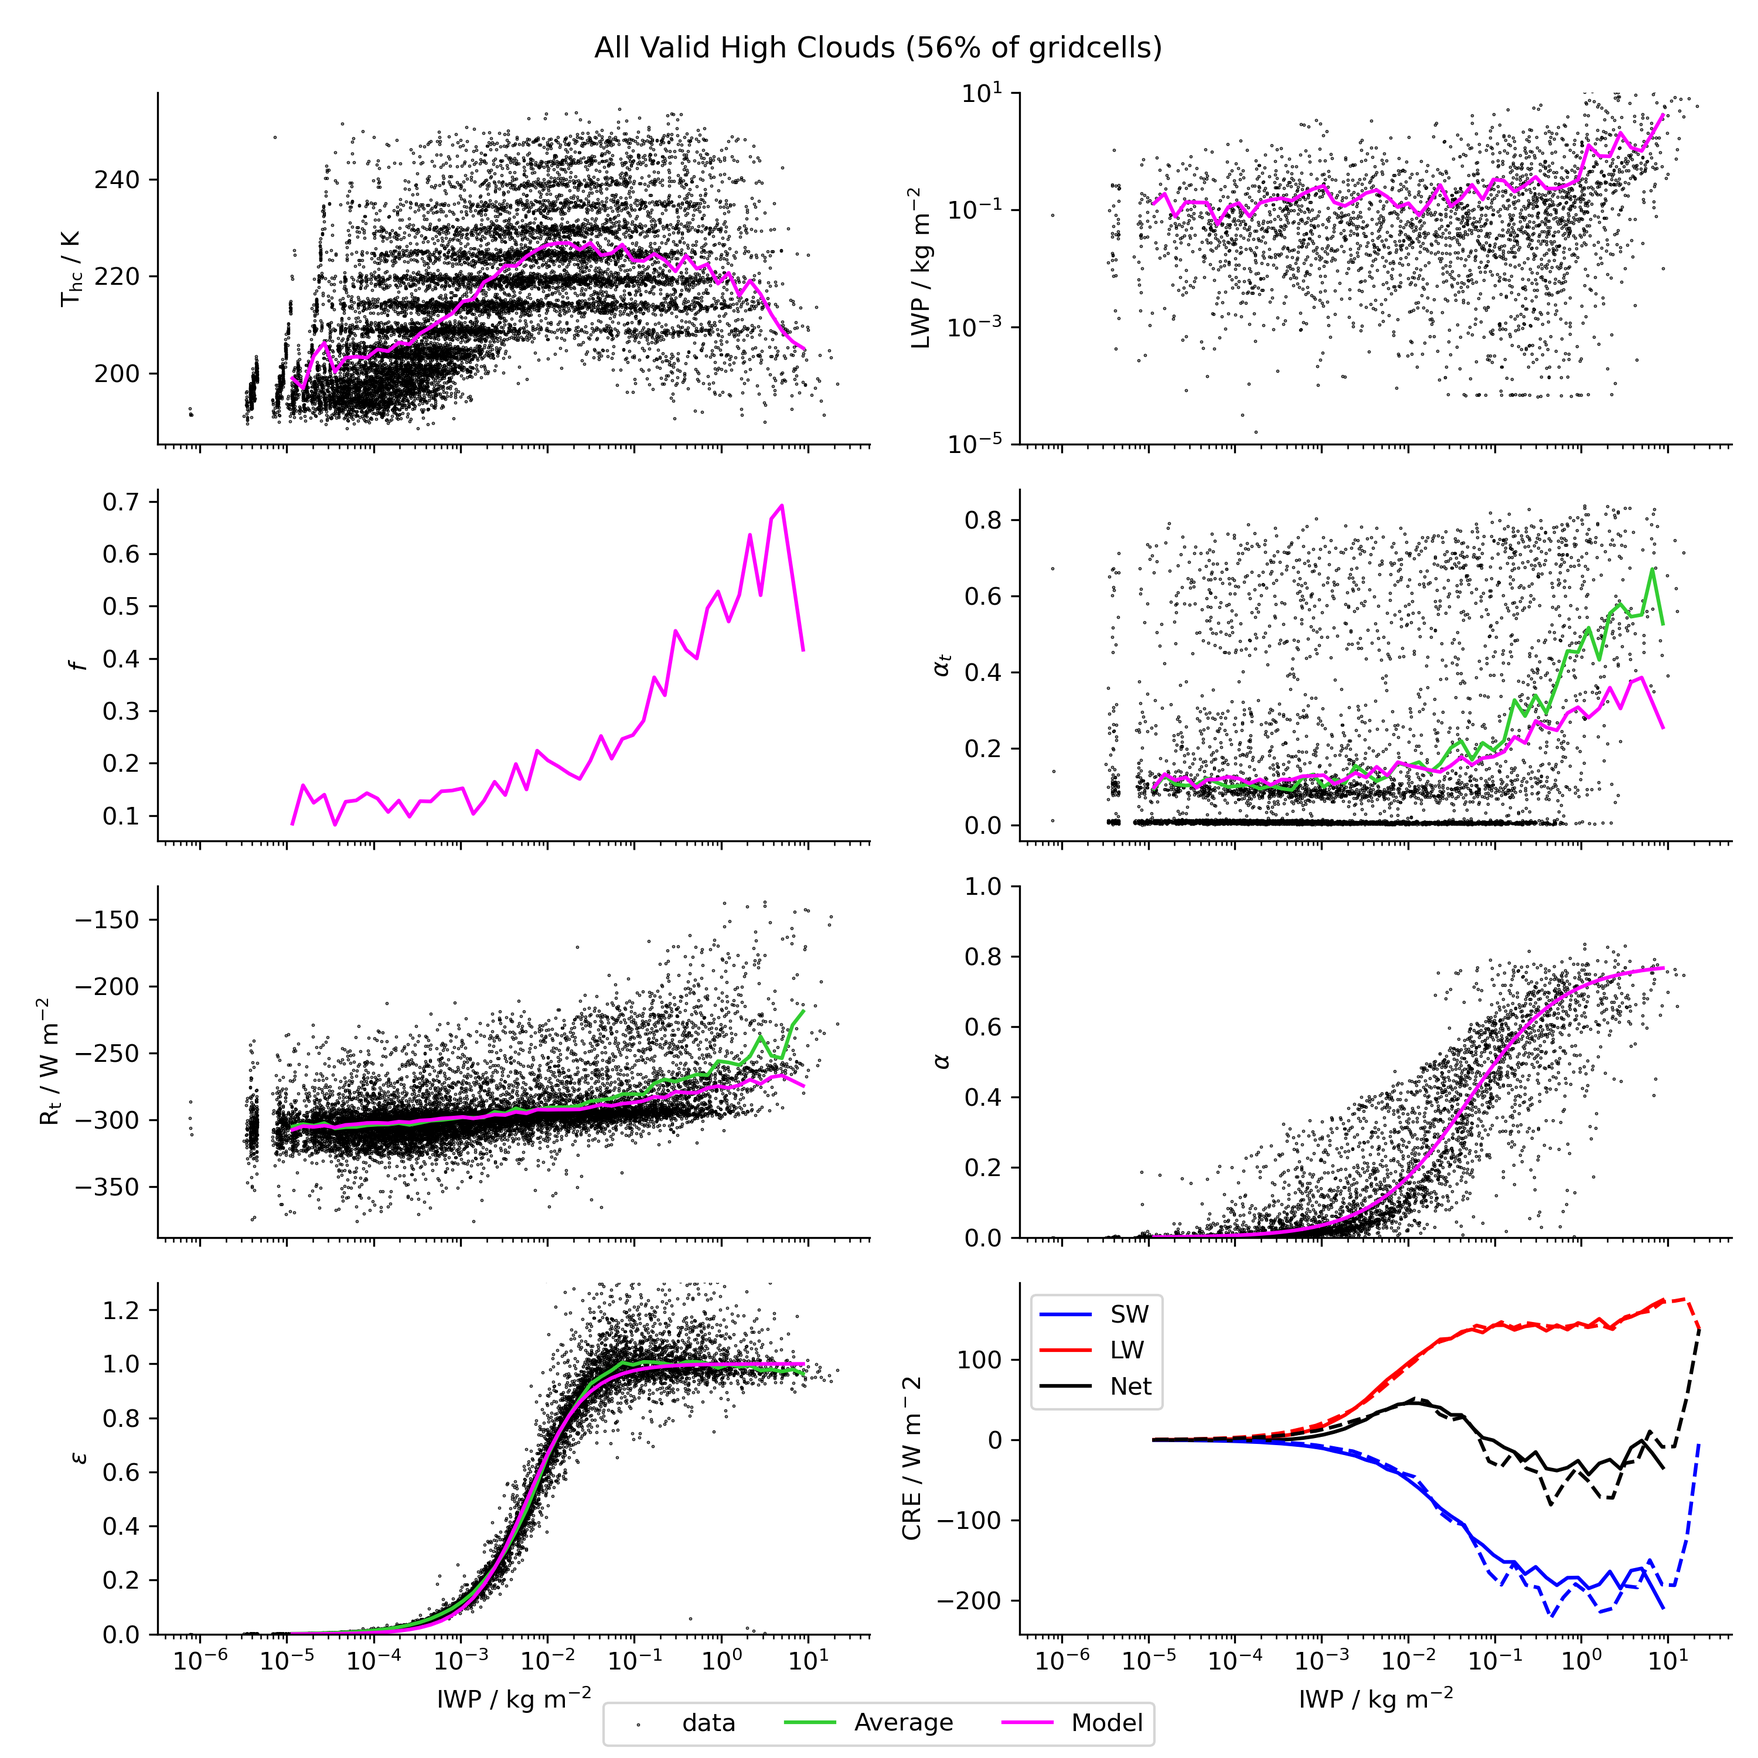
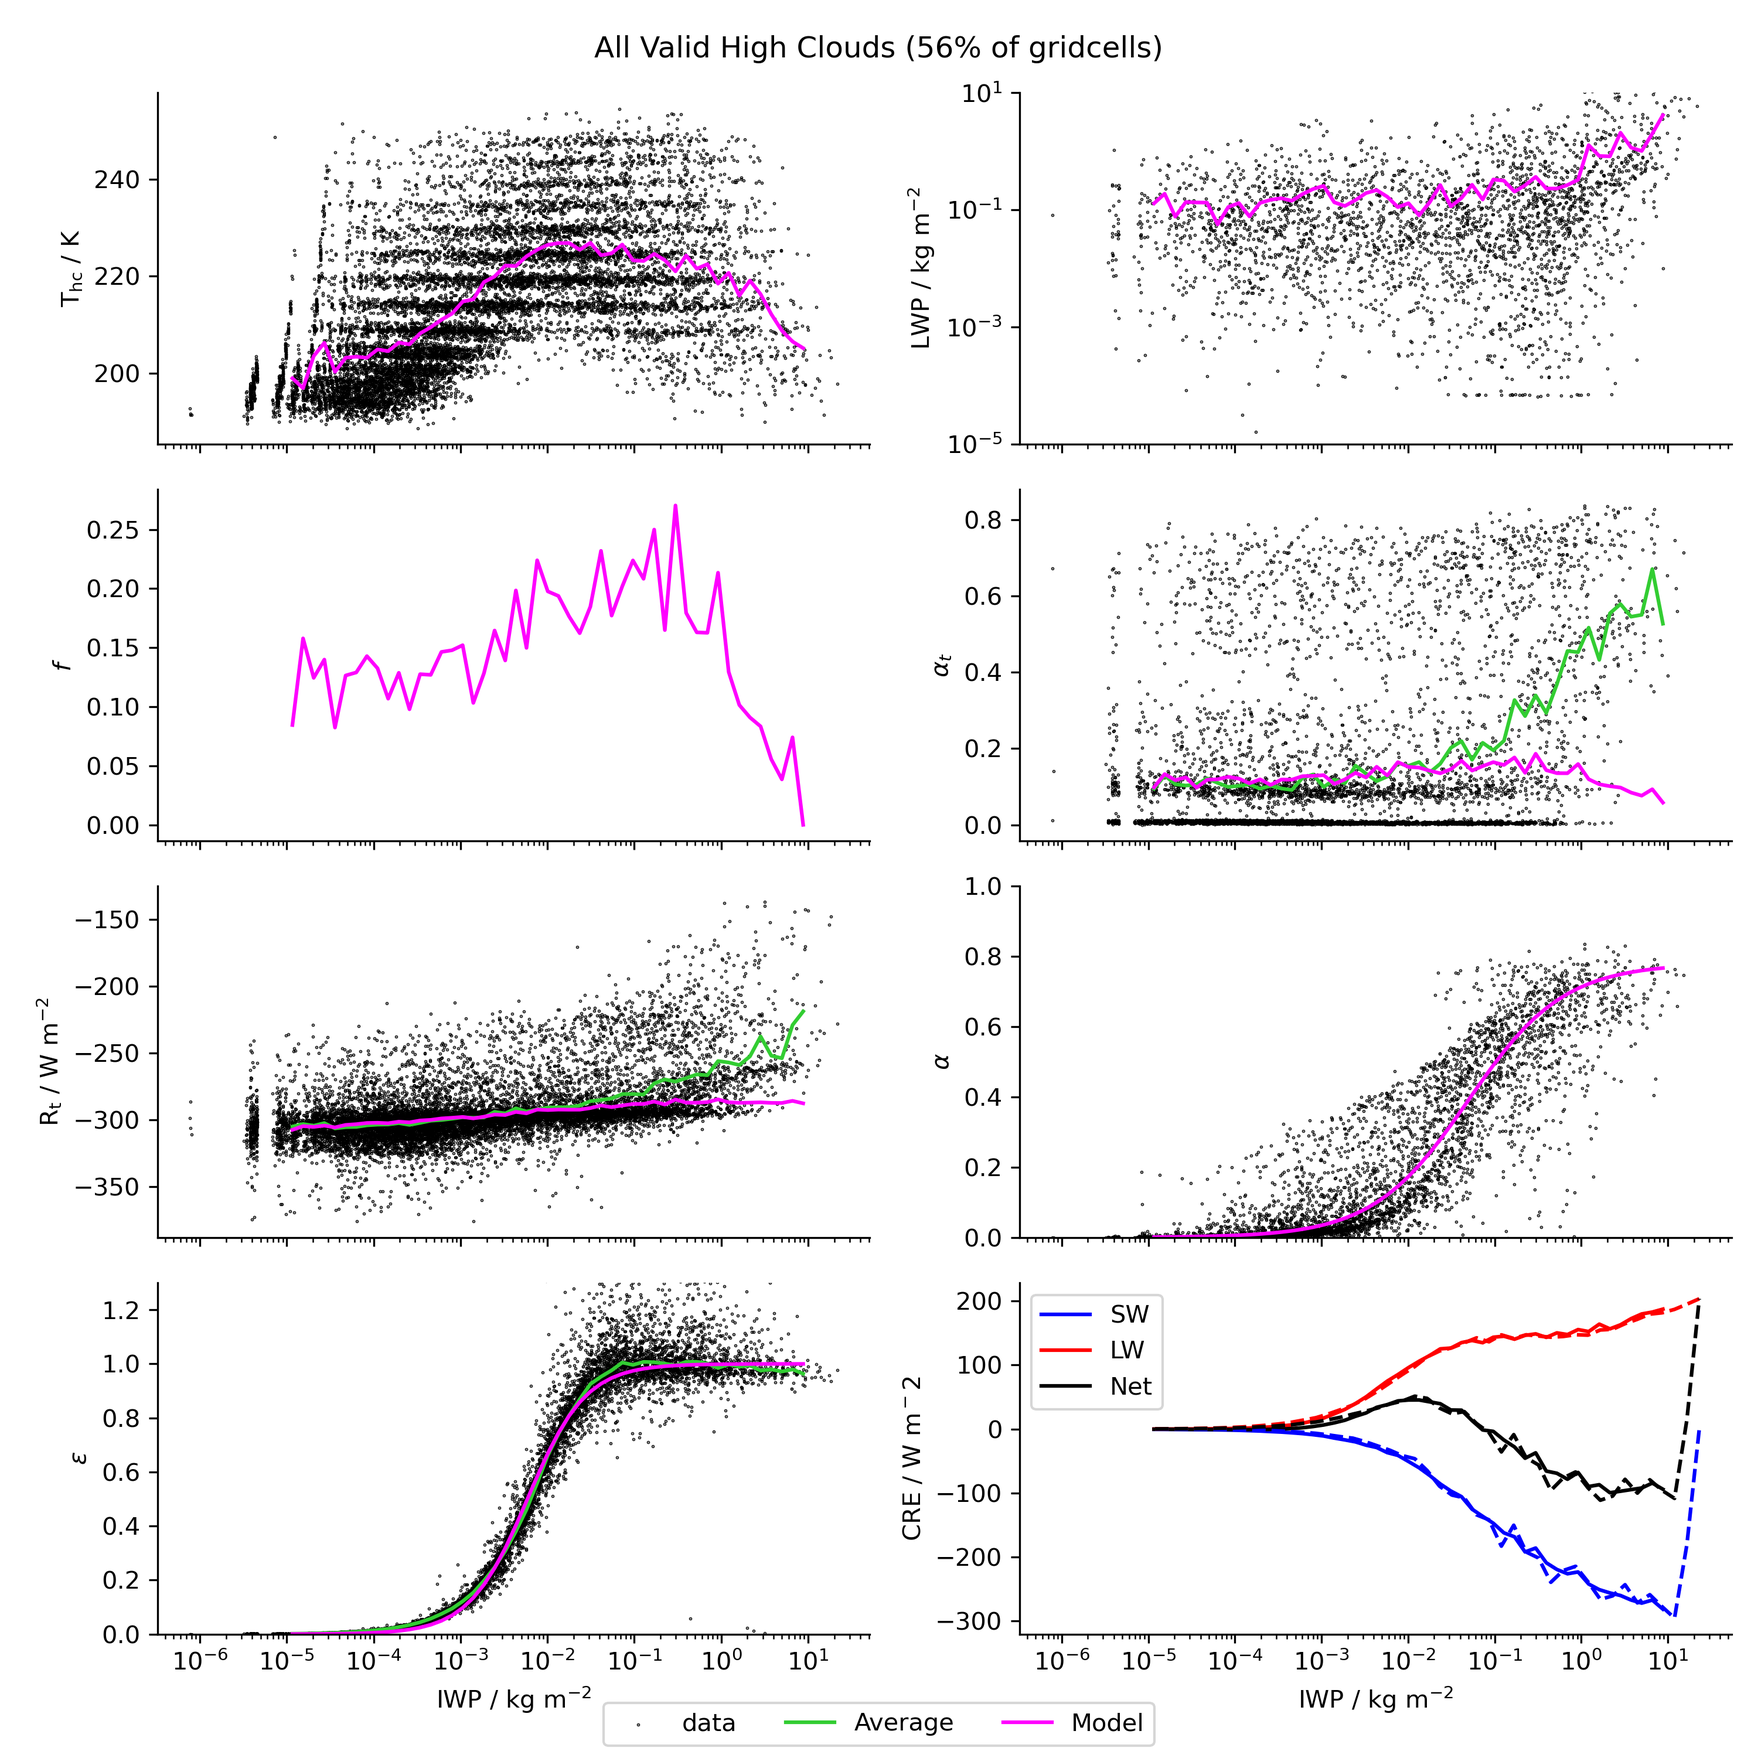
Connection included in model

diff --git a/src/plot_functions.py b/src/plot_functions.py
@@ -1,12 +1,10 @@
 import matplotlib.pyplot as plt
-from src.icon_arts_analysis import cut_data
+from src.icon_arts_analysis import cut_data, cut_data_mixed
 
 
 def plot_profiles(lat, lon, atms, fluxes_3d):
     fig, axes = plt.subplots(2, 5, figsize=(12, 10), sharey="row")
-    data = atms.sel(lat=lat, lon=lon, method="nearest").sel(
-        pressure=slice(100000, 5000)
-    )
+    data = atms.sel(lat=lat, lon=lon, method="nearest").sel(pressure=slice(100000, 5000))
     fluxes = fluxes_3d.sel(lat=lat, lon=lon, method="nearest").sel(
         pressure=slice(100000, 5000), p_half=slice(100000, 5000)
     )
@@ -51,9 +49,7 @@ def plot_profiles(lat, lon, atms, fluxes_3d):
 
     # plot LW fluxes down
     axes[1, 1].plot(fluxes["allsky_lw_down"], height, label="allsky", color="k")
-    axes[1, 1].plot(
-        fluxes["clearsky_lw_down"], height, label="clearsky", color="k", linestyle="--"
-    )
+    axes[1, 1].plot(fluxes["clearsky_lw_down"], height, label="clearsky", color="k", linestyle="--")
     axes[1, 1].set_xlabel("LW Down / W m$^{-2}$")
     axes[1, 1].legend()
 
@@ -71,9 +67,7 @@ def plot_profiles(lat, lon, atms, fluxes_3d):
 
     # plot SW fluxes down
     axes[1, 3].plot(fluxes["allsky_sw_down"], height, label="allsky", color="k")
-    axes[1, 3].plot(
-        fluxes["clearsky_sw_down"], height, label="clearsky", color="k", linestyle="--"
-    )
+    axes[1, 3].plot(fluxes["clearsky_sw_down"], height, label="clearsky", color="k", linestyle="--")
     axes[1, 3].set_xlabel("SW Down / W m$^{-2}$")
     axes[1, 3].legend()
 
@@ -92,9 +86,7 @@ def plot_profiles(lat, lon, atms, fluxes_3d):
 
     # plot sw heating rates
     axes[0, 3].plot(fluxes["allsky_hr_sw"], height, label="allsky", color="k")
-    axes[0, 3].plot(
-        fluxes["clearsky_hr_sw"], height, label="clearsky", color="k", linestyle="--"
-    )
+    axes[0, 3].plot(fluxes["clearsky_hr_sw"], height, label="clearsky", color="k", linestyle="--")
     axes[0, 3].set_xlabel("SW HR / K d$^{-1}$")
     axes[0, 3].axvline(0, linestyle=":", color="k")
     axes[0, 3].legend()
@@ -118,9 +110,7 @@ def plot_profiles(lat, lon, atms, fluxes_3d):
 
 def plot_profiles_noice(lat, lon, atms, fluxes_3d, fluxes_3d_noice):
     fig, axes = plt.subplots(2, 5, figsize=(12, 10), sharey="row")
-    data = atms.sel(lat=lat, lon=lon, method="nearest").sel(
-        pressure=slice(100000, 5000)
-    )
+    data = atms.sel(lat=lat, lon=lon, method="nearest").sel(pressure=slice(100000, 5000))
     fluxes = fluxes_3d.sel(lat=lat, lon=lon, method="nearest").sel(
         pressure=slice(100000, 5000), p_half=slice(100000, 5000)
     )
@@ -299,7 +289,7 @@ def plot_model_output(
     sw_vars_avg,
     lc_vars,
     cre_average,
-    mode = 'all'
+    mode="all",
 ):
     fig, axes = plt.subplots(4, 2, figsize=(10, 10), sharex="col")
 
@@ -314,9 +304,7 @@ def plot_model_output(
     axes[0, 0].set_ylabel(r"$\mathrm{T_{hc}}$ / K")
 
     # LWP
-    axes[0, 1].scatter(
-        cut_data(atms["IWP"], mask), cut_data(atms["LWP"], mask), s=0.1, color="k"
-    )
+    axes[0, 1].scatter(cut_data(atms["IWP"], mask), cut_data(atms["LWP"], mask), s=0.1, color="k")
     axes[0, 1].plot(result["LWP"], color="magenta")
     axes[0, 1].set_ylim(1e-5, 1e1)
     axes[0, 1].set_yscale("log")
@@ -327,25 +315,35 @@ def plot_model_output(
     axes[1, 0].set_ylabel(r"$f$")
 
     # alpha_t
+    alpha_t = cut_data_mixed(
+        fluxes_3d_noice["albedo_clearsky"],
+        fluxes_3d_noice["albedo_allsky"],
+        mask,
+        atms["connected"],
+    )
     axes[1, 1].scatter(
         cut_data(atms["IWP"], mask),
-        cut_data(fluxes_3d_noice["albedo_allsky"], mask),
+        alpha_t,
         s=0.1,
         color="k",
     )
-    cut_data(fluxes_3d_noice["albedo_allsky"], mask).groupby_bins(
-        cut_data(atms["IWP"], mask), bins=IWP_bins
-    ).mean().plot(ax=axes[1, 1], color="limegreen", label="Average")
+    alpha_t.groupby_bins(cut_data(atms["IWP"], mask), bins=IWP_bins).mean().plot(
+        ax=axes[1, 1], color="limegreen", label="Average"
+    )
     axes[1, 1].plot(result["alpha_t"], color="magenta", label="Model")
     axes[1, 1].set_ylabel(r"$\alpha_t$")
 
     # R_t
-    axes[2, 0].scatter(
-        cut_data(atms["IWP"], mask), cut_data(lc_vars["R_t"], mask), s=0.1, color="k"
+    R_t = cut_data_mixed(
+        fluxes_3d_noice["clearsky_lw_up"].isel(pressure=-1),
+        fluxes_3d_noice["allsky_lw_up"].isel(pressure=-1),
+        mask,
+        atms["connected"],
     )
-    cut_data(lc_vars["R_t"], mask).groupby_bins(
-        cut_data(atms["IWP"],mask), bins=IWP_bins
-    ).mean().plot(ax=axes[2, 0], color="limegreen", label="Average")
+    axes[2, 0].scatter(cut_data(atms["IWP"], mask), R_t, s=0.1, color="k")
+    R_t.groupby_bins(cut_data(atms["IWP"], mask), bins=IWP_bins).mean().plot(
+        ax=axes[2, 0], color="limegreen", label="Average"
+    )
     axes[2, 0].plot(result["R_t"], color="magenta", label="Model")
     axes[2, 0].set_ylabel(r"$\mathrm{R_t}$ / $\mathrm{W ~ m^{-2}}$")
 
@@ -369,7 +367,7 @@ def plot_model_output(
         label="data",
     )
     cut_data(lw_vars["high_cloud_emissivity"], mask).groupby_bins(
-        cut_data(atms["IWP"],mask), bins=IWP_bins
+        cut_data(atms["IWP"], mask), bins=IWP_bins
     ).median().plot(ax=axes[3, 0], color="limegreen", label="Average")
     axes[3, 0].plot(result["em_hc"], color="magenta", label="Model")
     axes[3, 0].set_ylabel(r"$\epsilon$")
@@ -379,27 +377,17 @@ def plot_model_output(
     axes[3, 1].plot(result["SW_cre"], color="blue", label="SW")
     axes[3, 1].plot(result["LW_cre"], color="red", label="LW")
     axes[3, 1].plot(result["SW_cre"] + result["LW_cre"], color="k", label="Net")
-    if mode == 'all':
-        axes[3, 1].plot(
-            cre_average["IWP"], cre_average["all_sw"], color="blue", linestyle="--"
-        )
-        axes[3, 1].plot(
-            cre_average["IWP"], cre_average["all_lw"], color="red", linestyle="--"
-        )
-        axes[3, 1].plot(
-            cre_average["IWP"], cre_average["all_net"], color="k", linestyle="--"
-        )
-    elif mode == 'ice_only':
+    if mode == "all":
+        axes[3, 1].plot(cre_average["IWP"], cre_average["all_sw"], color="blue", linestyle="--")
+        axes[3, 1].plot(cre_average["IWP"], cre_average["all_lw"], color="red", linestyle="--")
+        axes[3, 1].plot(cre_average["IWP"], cre_average["all_net"], color="k", linestyle="--")
+    elif mode == "ice_only":
         axes[3, 1].plot(
             cre_average["IWP"], cre_average["ice_only_sw"], color="blue", linestyle="--"
         )
-        axes[3, 1].plot(
-            cre_average["IWP"], cre_average["ice_only_lw"], color="red", linestyle="--"
-        )
-        axes[3, 1].plot(
-            cre_average["IWP"], cre_average["ice_only_net"], color="k", linestyle="--"
-        )
-    elif mode == 'ice_over_lc':
+        axes[3, 1].plot(cre_average["IWP"], cre_average["ice_only_lw"], color="red", linestyle="--")
+        axes[3, 1].plot(cre_average["IWP"], cre_average["ice_only_net"], color="k", linestyle="--")
+    elif mode == "ice_over_lc":
         axes[3, 1].plot(
             cre_average["IWP"], cre_average["ice_over_lc_sw"], color="blue", linestyle="--"
         )
@@ -409,16 +397,14 @@ def plot_model_output(
         axes[3, 1].plot(
             cre_average["IWP"], cre_average["ice_over_lc_net"], color="k", linestyle="--"
         )
-    elif mode == 'connected':
+    elif mode == "connected":
         axes[3, 1].plot(
             cre_average["IWP"], cre_average["connected_sw"], color="blue", linestyle="--"
         )
         axes[3, 1].plot(
             cre_average["IWP"], cre_average["connected_lw"], color="red", linestyle="--"
         )
-        axes[3, 1].plot(
-            cre_average["IWP"], cre_average["connected_net"], color="k", linestyle="--"
-        )
+        axes[3, 1].plot(cre_average["IWP"], cre_average["connected_net"], color="k", linestyle="--")
     else:
         raise ValueError('mode must be one of "all", "ice_only", "ice_over_lc", "connected"')
 

diff --git a/src/plot/inspect_cloud_separation.py b/src/plot/inspect_cloud_separation.py
@@ -15,11 +15,8 @@ atms, fluxes_3d, fluxes_3d_noice = load_atms_and_fluxes()
 cre_binned, cre_interpolated, cre_average = load_cre()
 lw_vars, sw_vars, lc_vars = load_derived_vars()
 
-# %%
-
-# select ice clouds with low clouds below
-mask = (atms["IWP"] > 1e-6) & (atms["LWP"] > 1e-6)
-
+# %% mask 
+mask = lw_vars["mask_height"] & (atms['IWP'] > 1e-6) & (atms['LWP'] > 1e-6)
 # bin data
 iwp_bins = np.logspace(-5, 1, 7)
 
@@ -28,15 +25,8 @@ liq_cld_cond = atms["LWC"] + atms["rain"]
 ice_cld_cond = atms["IWC"] + atms["snow"] + atms["graupel"]
 cld_cond = liq_cld_cond + ice_cld_cond
 
-# %% define conetctedness
-frac_no_cloud = 0.05  # fraction of maximum cloud condensate in colum to define no cloud
-no_ice_cloud = (ice_cld_cond > (frac_no_cloud * ice_cld_cond.max("pressure"))) * 1
-no_liq_cloud = (liq_cld_cond > (frac_no_cloud * liq_cld_cond.max("pressure"))) * 1
-no_cld = no_liq_cloud + no_ice_cloud
-
-
 # %% plot mean and std of cld condensate in all iwp bins
-def plot_condensate(ax, min, max):
+def plot_condensate(ax, min, max, mask):
     ax2 = ax.twiny()
     mean_liq = (
         liq_cld_cond.where((atms["IWP"] >= min) & (atms["IWP"] < max) & mask)
@@ -99,10 +89,10 @@ def plot_condensate(ax, min, max):
 
 
 
-def plot_connected(ax, min, max):
+def plot_connected(ax, min, max, mask):
 
-    mask = (atms['IWP'] > min) & (atms['IWP'] < max)
-    connected = define_connected(atms.where(mask).sel(lat=slice(-30, 30)))
+    mask_selection =  mask & (atms['IWP'] > min) & (atms['IWP'] < max)
+    connected = define_connected(atms.where(mask_selection).sel(lat=slice(-30, 30)), rain=False)
     n_profiles = (~np.isnan(connected)*1).sum().values
     connected_profiles = connected.sum().values
 
@@ -124,8 +114,8 @@ def plot_connected(ax, min, max):
 
 fig, axes = plt.subplots(2, 6, figsize=(20, 12), sharey="row")
 for i in range(6):
-    ax2 = plot_condensate(axes[0, i], iwp_bins[i], iwp_bins[i + 1])
-    plot_connected(axes[1, i], iwp_bins[i], iwp_bins[i + 1])
+    ax2 = plot_condensate(axes[0, i], iwp_bins[i], iwp_bins[i + 1], mask)
+    plot_connected(axes[1, i], iwp_bins[i], iwp_bins[i + 1], mask)
 
 axes[0, 0].invert_yaxis()
 axes[0, 0].set_ylabel("Pressure [hPa]")
@@ -135,6 +125,63 @@ fig.legend(
     handles + handles2, labels + labels2, bbox_to_anchor=(0.5, 0.3), loc="lower center", ncols=4
 )
 fig.savefig("plots/inspect_cloud_separation.png", dpi=300, bbox_inches="tight")
+
+
+# %% check the profiles at high IWP that are only connected if rain is included 
+
+def plot_n_profiles(ax, connected):
+    n_profiles = int((~np.isnan(connected)*1).sum())
+    ax.text(0.05, 0.90, f"Number of Profiles: {n_profiles:.0f}", transform=ax.transAxes)
+
+    ax.spines["top"].set_visible(False)
+    ax.spines["right"].set_visible(False)
+    ax.spines["left"].set_visible(False)
+    ax.spines["bottom"].set_visible(False)
+    ax.set_yticks([])
+    ax.set_xticks([])
+    
+
+
+connected_rain = define_connected(atms.where(mask & (atms['IWP'] > 1) & (atms['IWP'] <= 10)).sel(lat=slice(-30, 30)), rain=True)
+n_profiles_rain = (~np.isnan(connected_rain)*1).sum().values
+connected_profiles_rain = connected_rain.sum().values
+
+connected_no_rain = define_connected(atms.where(mask & (atms['IWP'] > 1) & (atms['IWP'] <= 10)).sel(lat=slice(-30, 30)), rain=False)
+n_profiles_no_rain = (~np.isnan(connected_no_rain)*1).sum().values
+connected_profiles_no_rain = connected_no_rain.sum().values
+
+fig, axes = plt.subplots(2, 3, figsize=(10, 10), sharey='row', sharex='row')
+
+plot_condensate(axes[0, 0], 1, 10, mask=(mask & (connected_rain == 1)))
+plot_condensate(axes[0, 1], 1, 10, mask=(mask & (connected_rain == 1) & (connected_no_rain == 1)))
+plot_condensate(axes[0, 2], 1, 10, mask=(mask & (connected_rain == 1) & (connected_no_rain == 0)))
+
+
+for ax in axes[0, :]:
+    ax.set_ylabel("Pressure [hPa]")
+    ax.spines["right"].set_visible(False)
+    ax.spines["top"].set_visible(False)
+
+axes[0, 0].invert_yaxis()
+axes[0, 0].set_title("With rain")
+axes[0, 1].set_title("With and without rain")
+axes[0, 2].set_title("With rain, not without")
+
+connect = np.ones(connected_rain.shape) * np.nan
+connect[(connected_rain == 1)] = 1
+plot_n_profiles(axes[1, 0], connect)
+connect = np.ones(connected_rain.shape) * np.nan
+connect[(connected_rain == 1) & (connected_no_rain == 1)] = 1
+plot_n_profiles(axes[1, 1], connect)
+connect = np.ones(connected_rain.shape) * np.nan
+connect[(connected_rain == 1) & (connected_no_rain == 0)] = 1
+plot_n_profiles(axes[1, 2], connect)
+
+handles, labels = axes[0, 0].get_legend_handles_labels()
+handles2, labels2 = ax2.get_legend_handles_labels()
+fig.legend(
+    handles + handles2, labels + labels2, bbox_to_anchor=(0.5, 0.3), loc="lower center", ncols=4
+)
 
 
 # %%

diff --git a/src/icon_arts_analysis.py b/src/icon_arts_analysis.py
@@ -124,7 +124,12 @@ def bin_and_average_cre(cre, IWP_bins, lon_bins, atms, modus="ice_only"):
 def cut_data(data, mask=True):
     return data.sel(lat=slice(-30, 30)).where(mask)
 
-def define_connected(atms, frac_no_cloud=0.05):
+def cut_data_mixed(data_cs, data_lc, mask, connected):
+    # returns lc data fro not connnected profiles and cs data for connected profiles at mask
+    data = xr.where(connected == 0 & mask, x=data_lc.where(mask), y=data_cs.where(mask)).sel(lat=slice(-30, 30))
+    return data
+
+def define_connected(atms, frac_no_cloud=0.05, rain=True):
     """
     defines for all profiles with ice above liquid whether
     the high and low clouds are connected (1) or not (0).
@@ -145,7 +150,11 @@ def define_connected(atms, frac_no_cloud=0.05):
     """
 
     # define liquid and ice cloud condensate
-    liq = atms["LWC"] + atms["rain"]
+    if rain:
+        liq = atms["LWC"] + atms["rain"]
+    else:
+        liq = atms["LWC"]
+        
     ice = atms["IWC"] + atms["snow"] + atms["graupel"]
 
     # define ice and liquid content needed for connectedness

diff --git a/src/process_icon_arts/calculate_quantities_freddis_runs.py b/src/process_icon_arts/calculate_quantities_freddis_runs.py
@@ -1,13 +1,12 @@
 # %%
 import xarray as xr
-import matplotlib.pyplot as plt
 import numpy as np
-import cartopy.crs as ccrs
 from src.icon_arts_analysis import define_connected
+import os
 
 # %% load data from freddis runs
 path_freddi = "/work/bm1183/m301049/icon_arts_processed/"
-run = "fullrange_flux_mid1deg_noice/"
+run = "fullrange_flux_mid1deg/"
 atms = xr.open_dataset(path_freddi + run + "atms.nc")
 fluxes_3d = xr.open_dataset(path_freddi + run + "fluxes_3d.nc")
 aux = xr.open_dataset(path_freddi + run + "aux.nc")
@@ -117,10 +116,12 @@ fluxes_3d["albedo_clearsky"] = np.abs(
 )
 
 # %% calculate connectedness
-atms['connected'] = define_connected(atms, frac_no_cloud=0.05)
+atms['connected'] = define_connected(atms, frac_no_cloud=0.05, rain=True)
 
 # %% save results
+os.remove(path_freddi + run + "atms_full.nc")
 atms.to_netcdf(path_freddi + run + "atms_full.nc")
+os.remove(path_freddi + run + "fluxes_3d_full.nc")
 fluxes_3d.to_netcdf(path_freddi + run + "fluxes_3d_full.nc")
 
 # %%

diff --git a/src/plot/test_full_model.py b/src/plot/test_full_model.py
@@ -80,7 +80,7 @@ fig, axes = plot_model_output(
 per_gridcells = (mask*1).sel(lat=slice(-30, 30)).mean().values * 100
 fig.suptitle(f"All Valid High Clouds ({per_gridcells:.0f}% of gridcells)", fontsize=12)
 fig.tight_layout()
-fig.savefig("plots/model_tests/8_cli_all.png", dpi=300)
+fig.savefig("plots/model_tests/8_cli_all_connected_rain.png", dpi=300)
 
  # %% run model for all profiles with cloud tops above 350 hPa and no low clouds below the high clouds 
 mask = lw_vars["mask_height"] & lw_vars['mask_hc_no_lc']
